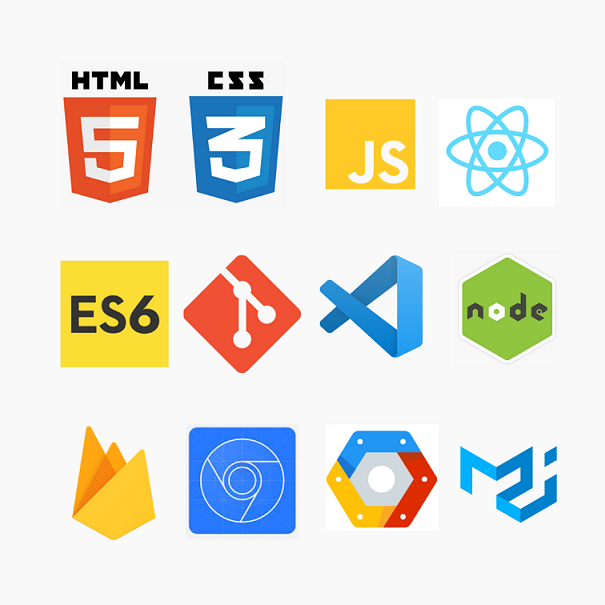
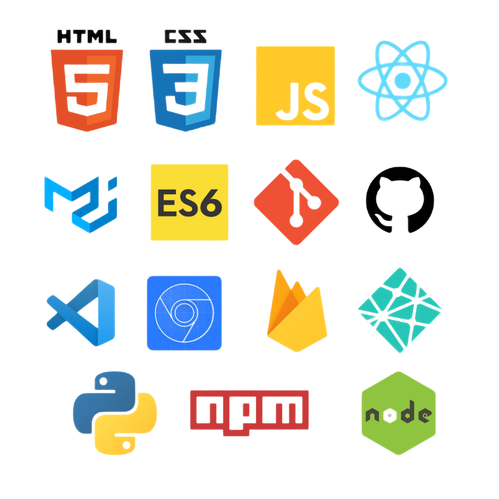
Updated transparent images and bio

diff --git a/src/components/InfoSection/Data.js b/src/components/InfoSection/Data.js
@@ -1,5 +1,5 @@
 import profilePhoto from '../../images/profile.jpg';
-import frontEndStack from '../../images/tools.png';
+import frontEndStack from '../../images/stack.png';
 import contact from '../../images/message.png';
 
 
@@ -15,7 +15,11 @@ export const homeOjectOne = {
         I am a self-taught developer currently working as a datacentre field engineer with thousands of noisy servers as my closest companions. I want to explore the software side of the Internet for a change and also level up my coding game.
     `,
     secondParagraph: `
-        I'm super passionate about most topics in the domain of science, technology, business and finance. I like to see myself as a perpetual learner with an obsessive need to improve and the discipline to follow through. Click below to see what I've been learning recently.
+        I'm super passionate about most topics in the domain of science, technology, business and finance. I like to see myself as a perpetual learner with an obsessive need to improve and the discipline to follow through.
+    `,
+    thirdParagraph: `
+        When I am free, I like to read, make coffee with my aeropress, cook and eat delicious food, bake artisan bread, play boardgames or learn something new.
+        Click below to see what I've been learning recently (in addition to juggling).
     `,
     buttonLabel: 'See skills',
     imgStart: true,
@@ -55,7 +59,7 @@ export const homeObjectThree = {
     lightText: false,
     lightTextDesc: false,
     topLine: 'Contact',
-    firstHeadline: '📧 mandi.awale@gmail.com', 
+    firstHeadline: '📧 madsAwale@gmail.com', 
     firstParagraph: '',
     secondParagraph: `Interested in working with me? Awesome! Send me a message.`,
     thirdParagraph: `Too formal? DM me on social media instead. ⬇`, 

diff --git a/src/components/InfoSection/InfoElements.js b/src/components/InfoSection/InfoElements.js
@@ -22,7 +22,7 @@ export const InfoWrapper = styled.div`
 
     @media screen and (max-width: 768px) {
         height: auto;
-        padding: 0 0;
+        padding: 1.5em 0;
     }
 `;
 
@@ -89,6 +89,7 @@ export const Subtitle = styled.p`
 export const ButtonWrap = styled.div`
     display: flex;
     justify-content: flex-start;
+    margin-bottom: 1em;
 `;
 
 export const ImageWrap = styled.div`

diff --git a/src/components/Projects/ProjectElements.js b/src/components/Projects/ProjectElements.js
@@ -9,11 +9,13 @@ export const ProjectsContainer = styled.div`
     background: #010606;
 
     @media screen and (max-width: 768px) {
-        height: 1100px;
+        height: auto;
+        padding: 2em 0;
     }
 
     @media screen and (max-width: 480px) {
-        height: 1300px;
+        height: auto;
+        padding: 2em 0;
     }    
 `
 

diff --git a/README.md b/README.md
@@ -1,70 +1,13 @@
-# Getting Started with Create React App
+#About
+A fully responsive and resuable portfolio website with multiple levels of customization. 
 
-This project was bootstrapped with [Create React App](https://github.com/facebook/create-react-app).
+#Features
+Fully responsive design
+Consistent theme and layout
+React smooth scroll animations
+Transparent Navbar on scroll
+Reusable information section with data injection
+Reusable custom components styled with 'styled components'
+Pre-recorded GIFs of projects for convinient preview
+Functional contact form submission (Netlify forms)
 
-## Available Scripts
-
-In the project directory, you can run:
-
-### `npm start`
-
-Runs the app in the development mode.\
-Open [http://localhost:3000](http://localhost:3000) to view it in the browser.
-
-The page will reload if you make edits.\
-You will also see any lint errors in the console.
-
-### `npm test`
-
-Launches the test runner in the interactive watch mode.\
-See the section about [running tests](https://facebook.github.io/create-react-app/docs/running-tests) for more information.
-
-### `npm run build`
-
-Builds the app for production to the `build` folder.\
-It correctly bundles React in production mode and optimizes the build for the best performance.
-
-The build is minified and the filenames include the hashes.\
-Your app is ready to be deployed!
-
-See the section about [deployment](https://facebook.github.io/create-react-app/docs/deployment) for more information.
-
-### `npm run eject`
-
-**Note: this is a one-way operation. Once you `eject`, you can’t go back!**
-
-If you aren’t satisfied with the build tool and configuration choices, you can `eject` at any time. This command will remove the single build dependency from your project.
-
-Instead, it will copy all the configuration files and the transitive dependencies (webpack, Babel, ESLint, etc) right into your project so you have full control over them. All of the commands except `eject` will still work, but they will point to the copied scripts so you can tweak them. At this point you’re on your own.
-
-You don’t have to ever use `eject`. The curated feature set is suitable for small and middle deployments, and you shouldn’t feel obligated to use this feature. However we understand that this tool wouldn’t be useful if you couldn’t customize it when you are ready for it.
-
-## Learn More
-
-You can learn more in the [Create React App documentation](https://facebook.github.io/create-react-app/docs/getting-started).
-
-To learn React, check out the [React documentation](https://reactjs.org/).
-
-### Code Splitting
-
-This section has moved here: [https://facebook.github.io/create-react-app/docs/code-splitting](https://facebook.github.io/create-react-app/docs/code-splitting)
-
-### Analyzing the Bundle Size
-
-This section has moved here: [https://facebook.github.io/create-react-app/docs/analyzing-the-bundle-size](https://facebook.github.io/create-react-app/docs/analyzing-the-bundle-size)
-
-### Making a Progressive Web App
-
-This section has moved here: [https://facebook.github.io/create-react-app/docs/making-a-progressive-web-app](https://facebook.github.io/create-react-app/docs/making-a-progressive-web-app)
-
-### Advanced Configuration
-
-This section has moved here: [https://facebook.github.io/create-react-app/docs/advanced-configuration](https://facebook.github.io/create-react-app/docs/advanced-configuration)
-
-### Deployment
-
-This section has moved here: [https://facebook.github.io/create-react-app/docs/deployment](https://facebook.github.io/create-react-app/docs/deployment)
-
-### `npm run build` fails to minify
-
-This section has moved here: [https://facebook.github.io/create-react-app/docs/troubleshooting#npm-run-build-fails-to-minify](https://facebook.github.io/create-react-app/docs/troubleshooting#npm-run-build-fails-to-minify)
